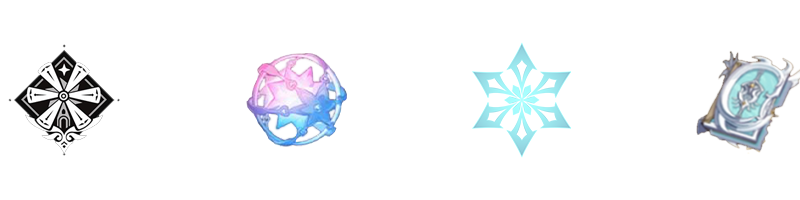
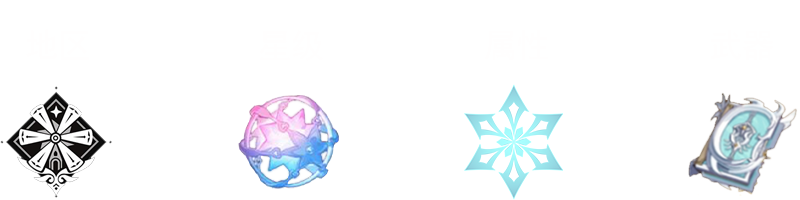
v0.0.1beta

diff --git a/gamepage/game.html b/gamepage/game.html
@@ -28,10 +28,6 @@
 
         <!--提示文字-->
         <div id="tipsfont"  align="center" style="font-family: 等线; font-size: 10px;color: aliceblue;">
-            <div>地区&nbsp;&nbsp;&nbsp;&nbsp;&nbsp;&nbsp;&nbsp;&nbsp;&nbsp;&nbsp;&nbsp;&nbsp;&nbsp;&nbsp;&nbsp;
-                星级&nbsp;&nbsp;&nbsp;&nbsp;&nbsp;&nbsp;&nbsp;&nbsp;&nbsp;&nbsp;&nbsp;&nbsp;&nbsp;&nbsp;
-                元素&nbsp;&nbsp;&nbsp;&nbsp;&nbsp;&nbsp;&nbsp;&nbsp;&nbsp;&nbsp;&nbsp;&nbsp;&nbsp;&nbsp;
-                武器&nbsp;</div>
             <img src="../img/tips.png" alt="aaa" id = "tipsImg">
         </div>
 

diff --git a/gamepage/game.js b/gamepage/game.js
@@ -17,7 +17,6 @@ var SerChara=[  ["八重神子",0,"dq",5,"lei","fq"],["云堇",1,"ly",4,"yan","c
             ];
 
 var ans=Math.floor(Math.random()*45),ALLGuessNum=1,maxnum=6;
-ans=0;
 
 
 

diff --git a/gamepage/game.css b/gamepage/game.css
@@ -36,7 +36,6 @@
     position: relative;
     margin: auto;
     left: -5px;
-    top: -5px;
     height: 65px;
 }
 
